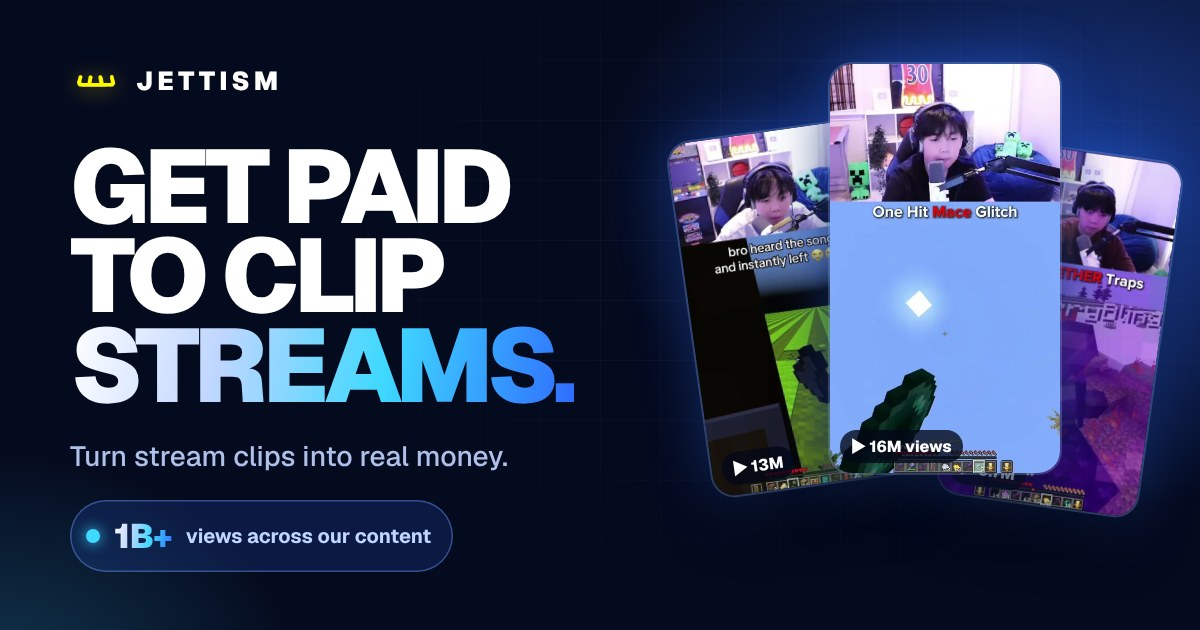
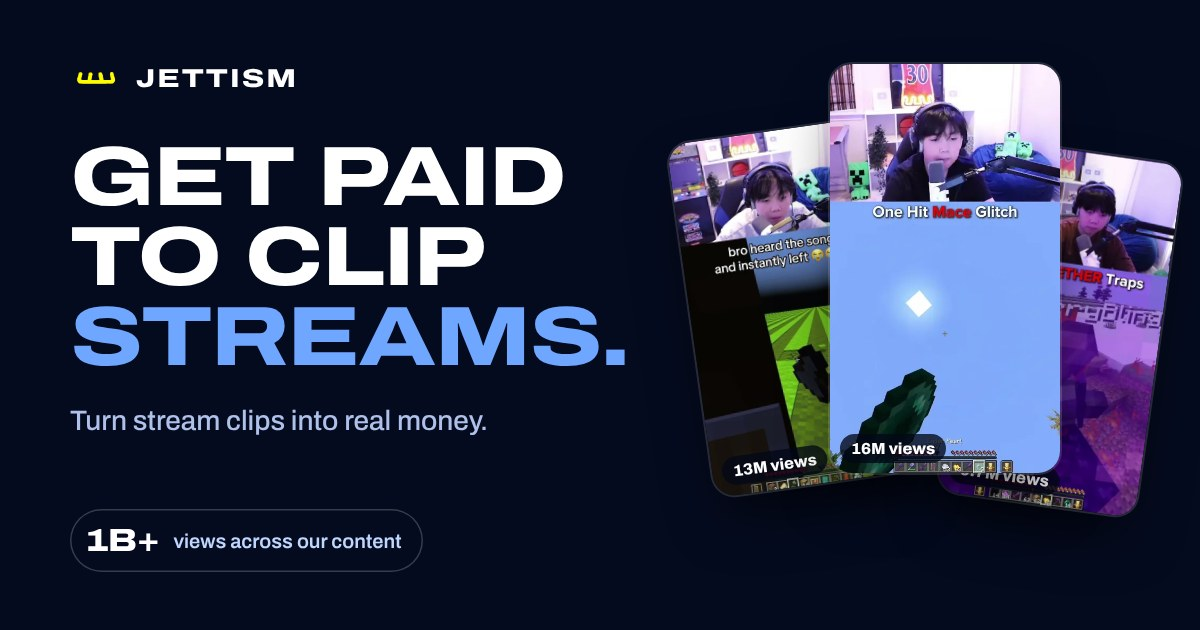
Tone down the design: Archivo font, flat colours, no glow, no sparkles/arrows, plainer copy
Headlines now 'The Numbers', 'Two streams a week. Lots to clip.', 'Join our team'.

Claude-Session: https://claude.ai/code/session_019TRDTgZzLYqmLrYf244trq

diff --git a/index.html b/index.html
@@ -10,19 +10,19 @@
 <meta property="og:url" content="https://jettism.productions/">
 <meta property="og:title" content="Get Paid To Clip Streams">
 <meta property="og:description" content="Turn stream clips into real money. Clip the streams, post the best moments, and get paid for your views.">
-<meta property="og:image" content="https://jettism.productions/og.jpg?v=1">
+<meta property="og:image" content="https://jettism.productions/og.jpg?v=2">
 <meta property="og:image:width" content="1200">
 <meta property="og:image:height" content="630">
 <meta property="og:image:alt" content="Get paid to clip streams — Jettism, 1B+ views">
 <meta name="twitter:card" content="summary_large_image">
 <meta name="twitter:title" content="Get Paid To Clip Streams">
 <meta name="twitter:description" content="Turn stream clips into real money. Clip the streams, post the best moments, and get paid for your views.">
-<meta name="twitter:image" content="https://jettism.productions/og.jpg?v=1">
+<meta name="twitter:image" content="https://jettism.productions/og.jpg?v=2">
 <meta name="theme-color" content="#2F6BFF">
 <link rel="icon" type="image/png" href="/jettismicontransparent.png">
 <link rel="preconnect" href="https://fonts.googleapis.com">
 <link rel="preconnect" href="https://fonts.gstatic.com" crossorigin>
-<link href="https://fonts.googleapis.com/css2?family=Geist:wght@400;500;600;700;800;900&family=Geist+Mono:wght@500;600;700&display=swap" rel="stylesheet">
+<link href="https://fonts.googleapis.com/css2?family=Archivo:wdth,wght@62..125,100..900&display=swap" rel="stylesheet">
 <link rel="preload" as="image" href="/clips/yt/y8GXeNOjC-I.webp">
 <style>
 :root{
@@ -35,7 +35,7 @@
 }
 *,*::before,*::after{box-sizing:border-box;margin:0;padding:0}
 html{scroll-behavior:smooth;scroll-padding-top:84px;-webkit-text-size-adjust:100%}
-body{font-family:'Geist',system-ui,-apple-system,sans-serif;background:var(--navy-900);color:#fff;
+body{font-family:'Archivo',system-ui,-apple-system,sans-serif;background:var(--navy-900);color:#fff;
   -webkit-font-smoothing:antialiased;overflow-x:hidden;line-height:1.5}
 img{display:block;max-width:100%}
 a{color:inherit;text-decoration:none}
@@ -248,7 +248,7 @@ section{position:relative}
 .step::before{content:'';position:absolute;right:-60px;top:-60px;width:200px;height:200px;border-radius:50%;
   background:radial-gradient(circle,rgba(63,216,255,.28),transparent 70%);transition:transform .6s var(--ease)}
 .step:hover::before{transform:scale(1.4)}
-.step .num{font-family:'Geist Mono',monospace;font-weight:700;font-size:14px;color:var(--blue);letter-spacing:.1em}
+.step .num{font-family:'Archivo',sans-serif;font-weight:700;font-size:14px;color:var(--blue);letter-spacing:.1em}
 .step .ic{width:64px;height:64px;border-radius:18px;display:grid;place-items:center;margin:22px 0 26px;
   background:linear-gradient(140deg,#5B92FF,var(--blue-2));box-shadow:0 16px 30px -10px rgba(47,107,255,.7),0 0 0 1px rgba(255,255,255,.3) inset}
 .step .ic svg{width:30px;height:30px}
@@ -339,6 +339,51 @@ footer{background:var(--navy-950);padding:44px 0;border-top:1px solid var(--line
   .track{animation:none!important}
   .line-path{stroke-dashoffset:0!important}.bars i{transform:none!important}.area{opacity:1!important}
 }
+
+/* ---------- calmer look: one typeface, flat colour, no glow ---------- */
+:root{--accent:#6FA6FF}
+body,.btn,.nav-links a{font-family:'Archivo',system-ui,-apple-system,sans-serif}
+.h-xl,.h-lg,.h-xxl,.logo,.ticker-track,.bignum .n,.pstat .v,.ostat .v,.f-views .v{font-family:'Archivo',sans-serif;font-stretch:125%}
+.h-xl{font-weight:800;letter-spacing:-.02em;line-height:.95;font-size:clamp(44px,6.3vw,102px)}
+.h-lg,.h-xxl{font-weight:800;letter-spacing:-.02em;line-height:.95}
+.h-lg{font-size:clamp(40px,5.6vw,84px)} .h-xxl{font-size:clamp(40px,6.4vw,104px)}
+.bignum .n{font-weight:800;letter-spacing:-.02em;font-size:clamp(30px,4.4vw,66px)}
+.bignum .n small{font-size:.34em;letter-spacing:.02em;margin-left:10px;color:var(--muted-d);font-stretch:100%;vertical-align:.7em;font-weight:600}
+.pstat .v,.ostat .v{font-weight:800;letter-spacing:-.02em}
+.accent{color:var(--accent)}
+.logo{font-weight:800;letter-spacing:.08em}
+.logo img{filter:none}
+.btn{font-weight:700;letter-spacing:0;font-size:16px;border-radius:12px}
+.btn-primary{background:var(--blue);box-shadow:none}
+.btn-primary:hover{background:#4A7DFF;box-shadow:none;transform:none}
+.btn-primary::after{display:none}
+.btn-ghost{background:transparent;box-shadow:0 0 0 1px rgba(255,255,255,.22) inset;backdrop-filter:none}
+.btn-ghost:hover{background:rgba(255,255,255,.06);transform:none}
+.btn-huge{animation:none;height:64px;padding:0 36px;margin-top:36px;font-size:17px}
+.hero{background:var(--navy-900)}
+.ph{box-shadow:0 0 0 1px rgba(255,255,255,.12),0 30px 60px -24px rgba(0,0,0,.75)}
+.float{animation:none;background:#0C1838;backdrop-filter:none;-webkit-backdrop-filter:none;box-shadow:0 0 0 1px rgba(255,255,255,.1),0 20px 40px -16px rgba(0,0,0,.6)}
+.f-views .k{letter-spacing:.02em;font-size:12px}
+.f-views .up{color:var(--muted-d);font-weight:500}
+.ticker{background:var(--blue);box-shadow:none;padding:18px 0}
+.ticker-track{font-weight:800;letter-spacing:-.01em;gap:40px}
+.ticker-track img{height:.5em;width:auto}
+.proof{background:var(--navy-900)}
+.pstat{background:transparent;box-shadow:0 0 0 1px var(--line-d) inset}
+.gcard{box-shadow:0 0 0 1px rgba(255,255,255,.1)}
+.gcard:hover{transform:translateY(-4px);box-shadow:0 0 0 1px rgba(255,255,255,.3)}
+.gallery .gcard.in:nth-child(4n+2):hover,.gallery .gcard.in:nth-child(4n+4):hover{transform:translateY(40px)}
+.gcard:hover img{transform:none}
+.gcard .rank{background:rgba(3,8,23,.8);backdrop-filter:none}
+.gcard .meta span{color:#fff;opacity:.8;font-weight:600}
+.opp{background:var(--navy-950)}
+.opp-stats{background:var(--line-d)}
+.mt{box-shadow:0 0 0 1px rgba(255,255,255,.1)}
+.final{background:var(--blue-2)}
+.final .sub{color:#DCE6FF}
+.final .fine{color:#C3D3FF}
+.final .btn-primary{background:#fff;color:var(--blue-2)}
+.final .btn-primary:hover{background:#E8EFFF}
 </style>
 </head>
 <body>
@@ -349,37 +394,36 @@ footer{background:var(--navy-950);padding:44px 0;border-top:1px solid var(--line
     <nav class="nav-links" aria-label="Sections">
       <a href="#clips">Viral Clips</a>
     </nav>
-    <a class="btn btn-primary" data-join href="/apply?position=Clipper">Join Now <span class="arr">→</span></a>
+    <a class="btn btn-primary" data-join href="/apply?position=Clipper">Apply</a>
   </div>
 </header>
 
 <main id="top">
 <!-- ============ HERO ============ -->
 <section class="hero">
-  <div class="grid-bg"></div><div class="orb o1"></div><div class="orb o2"></div>
   <div class="wrap hero-grid">
     <div>
       
-      <h1 class="h-xl"><span class="ld" style="--d:.12s">Get paid</span><span class="ld" style="--d:.2s">to clip</span><span class="ld grad" style="--d:.28s">streams.</span></h1>
+      <h1 class="h-xl"><span class="ld" style="--d:.12s">Get paid</span><span class="ld" style="--d:.2s">to clip</span><span class="ld accent" style="--d:.28s">streams.</span></h1>
       <p class="lead ld" style="--d:.4s">Turn stream clips into real money.</p>
       <div class="ctas ld" style="--d:.5s">
-        <a class="btn btn-primary" data-join href="/apply?position=Clipper">START EARNING <span class="arr">→</span></a>
-        <a class="btn btn-ghost" href="#clips">SEE THE CLIPS <span class="arr" style="transform:none">↓</span></a>
+        <a class="btn btn-primary" data-join href="/apply?position=Clipper">Apply to clip</a>
+        <a class="btn btn-ghost" href="#clips">See the clips</a>
       </div>
       <div class="bignum ld" style="--d:.62s">
-        <div class="n"><span class="grad mono" data-count="views-hero">1,000,000,000</span><span class="grad">+</span><small>VIEWS</small></div>
-        <p data-text="heroViewsNote">Over 1 billion views generated across our content.</p>
+        <div class="n"><span class="mono" data-count="views-hero">1,000,000,000</span>+<small>views</small></div>
+        <p data-text="heroViewsNote">Across the Jettism and JettismToo channels.</p>
       </div>
     </div>
 
     <div class="stage ld" style="--d:.3s" aria-hidden="true">
-      <div class="ph p2" data-par="-0.06"><img src="/clips/yt/KuRzqeLLo8I.webp" alt="" width="432" height="768"><span class="vc">▶ 13M views</span></div>
-      <div class="ph p3" data-par="-0.1"><img src="/clips/yt/a8vPLp1cC3E.webp" alt="" width="432" height="768"><span class="vc">▶ 9.7M views</span></div>
-      <div class="ph p1" data-par="-0.03"><img src="/clips/yt/y8GXeNOjC-I.webp" alt="" width="432" height="768" fetchpriority="high"><span class="vc">▶ 16M views</span></div>
+      <div class="ph p2" data-par="-0.06"><img src="/clips/yt/KuRzqeLLo8I.webp" alt="" width="432" height="768"><span class="vc">13M views</span></div>
+      <div class="ph p3" data-par="-0.1"><img src="/clips/yt/a8vPLp1cC3E.webp" alt="" width="432" height="768"><span class="vc">9.7M views</span></div>
+      <div class="ph p1" data-par="-0.03"><img src="/clips/yt/y8GXeNOjC-I.webp" alt="" width="432" height="768" fetchpriority="high"><span class="vc">16M views</span></div>
       <div class="float f-views">
-        <div class="k">TOP CLIP</div>
+        <div class="k">Top clip</div>
         <div class="v mono">16,000,000</div>
-        <div class="up">▲ views on one stream clip</div>
+        <div class="up">views on one stream clip</div>
       </div>
       
       
@@ -390,20 +434,19 @@ footer{background:var(--navy-950);padding:44px 0;border-top:1px solid var(--line
 
 <!-- ============ TICKER ============ -->
 <div class="ticker" aria-label="Get paid for your views">
-  <div class="ticker-track" aria-hidden="true"><span>Get paid for your views</span><i>✦</i><span>Get paid for your views</span><i>✦</i><span>Get paid for your views</span><i>✦</i><span>Get paid for your views</span><i>✦</i><span>Get paid for your views</span><i>✦</i><span>Get paid for your views</span><i>✦</i><span>Get paid for your views</span><i>✦</i><span>Get paid for your views</span><i>✦</i></div>
+  <div class="ticker-track" aria-hidden="true"><span>Get paid for your views</span><img src="/crown.png" alt=""><span>Get paid for your views</span><img src="/crown.png" alt=""><span>Get paid for your views</span><img src="/crown.png" alt=""><span>Get paid for your views</span><img src="/crown.png" alt=""><span>Get paid for your views</span><img src="/crown.png" alt=""><span>Get paid for your views</span><img src="/crown.png" alt=""><span>Get paid for your views</span><img src="/crown.png" alt=""><span>Get paid for your views</span><img src="/crown.png" alt=""></div>
 </div>
 
 <!-- ============ PROOF ============ -->
 <section class="sec dark proof" id="clips">
   <div class="wrap">
     <div class="center">
-      <span class="eyebrow rv">Viral proof</span>
-      <h2 class="h-lg rv" style="--d:.08s">The numbers<br><span class="grad">speak for themselves.</span></h2>
-      <p class="sub rv" style="--d:.16s">Billions of impressions. Millions of viewers. Endless opportunities.</p>
+      <h2 class="h-lg rv" style="--d:.08s">The Numbers</h2>
+      <p class="sub rv" style="--d:.16s">The most-watched clips on JettismToo. Every one of them started as a moment on stream.</p>
     </div>
     <div class="proof-stats">
-      <div class="pstat rv" style="--d:.08s"><div class="v grad mono" data-count="short" data-to="16000000">0</div><div class="k">views on the top clip</div></div>
-      <div class="pstat rv" style="--d:.16s"><div class="v grad mono" data-count="int" data-to="116">0</div><div class="k">clips past 1M views</div></div>
+      <div class="pstat rv" style="--d:.08s"><div class="v mono" data-count="short" data-to="16000000">0</div><div class="k">views on the top clip</div></div>
+      <div class="pstat rv" style="--d:.16s"><div class="v mono" data-count="int" data-to="116">0</div><div class="k">clips past 1M views</div></div>
     </div>
     <div class="gallery" id="gallery"></div>
     <p class="proof-note rv">Live from <a href="https://www.youtube.com/@JettismToo/shorts" target="_blank" rel="noopener" style="text-decoration:underline">@JettismToo</a>, stream clips sorted by most popular (view counts as of Nov 23, 2026). Tap any clip to watch it.</p>
@@ -413,14 +456,12 @@ footer{background:var(--navy-950);padding:44px 0;border-top:1px solid var(--line
 
 <!-- ============ OPPORTUNITY ============ -->
 <section class="sec opp dark">
-  <div class="beam"></div>
   <div class="wrap center">
-    <span class="eyebrow rv">The opportunity</span>
-    <h2 class="h-xxl rv" style="--d:.08s">The next<br>viral clip<br><span class="grad">could be yours.</span></h2>
+    <h2 class="h-xxl rv" style="--d:.08s">Two streams a week.<br><span class="accent">Lots to clip.</span></h2>
     <div class="opp-stats rv" style="--d:.16s">
-      <div class="ostat"><div class="v grad mono" data-count="billion">1B+</div><div class="k">views across our content</div></div>
-      <div class="ostat"><div class="v grad mono" data-count="short" data-to="16000000">0</div><div class="k">views on one clip</div></div>
-      <div class="ostat"><div class="v grad mono">2×</div><div class="k">streams every week</div></div>
+      <div class="ostat"><div class="v mono" data-count="billion">1B+</div><div class="k">views across our content</div></div>
+      <div class="ostat"><div class="v mono" data-count="short" data-to="16000000">0</div><div class="k">views on one clip</div></div>
+      <div class="ostat"><div class="v mono">2×</div><div class="k">streams every week</div></div>
     </div>
   </div>
   <div class="marquee" aria-hidden="true">
@@ -432,10 +473,10 @@ footer{background:var(--navy-950);padding:44px 0;border-top:1px solid var(--line
 <!-- ============ FINAL ============ -->
 <section class="final">
   <div class="wrap">
-    <h2 class="h-xxl rv">Stop scrolling.<br><span class="grad">Start earning.</span></h2>
-    <p class="sub rv" style="--d:.1s">Your next clip could reach millions. Start clipping today.</p>
-    <a class="btn btn-primary btn-huge rv" style="--d:.18s" data-join href="/apply?position=Clipper">JOIN THE CLIPPING PROGRAM <span class="arr">→</span></a>
-    <p class="fine rv" style="--d:.24s">Takes about 2 minutes to apply.</p>
+    <h2 class="h-xxl rv">Join our team</h2>
+    <p class="sub rv" style="--d:.1s">Clip the streams, post the best parts, and get paid for the views.</p>
+    <a class="btn btn-primary btn-huge rv" style="--d:.18s" data-join href="/apply?position=Clipper">Apply now</a>
+    <p class="fine rv" style="--d:.24s">The form takes about 2 minutes.</p>
   </div>
 </section>
 </main>
@@ -462,7 +503,7 @@ footer{background:var(--navy-950);padding:44px 0;border-top:1px solid var(--line
 const CONFIG = {
   joinUrl: '/apply?position=Clipper',     // where every "Join / Start earning" button goes
   heroViews: 1000000000,                  // the big hero number
-  heroViewsNote: 'Over 1 billion views generated across our content.'
+  heroViewsNote: 'Across the Jettism and JettismToo channels.'
 };
 const CLIPS = [ // @JettismToo stream clips (facecam Shorts), Popular order — views as shown on YouTube, Nov 23 2026
   {id:"y8GXeNOjC-I",title:"Jettism Finds An OP Glitch",views:"16M"},
@@ -518,11 +559,11 @@ const CLIPS = [ // @JettismToo stream clips (facecam Shorts), Popular order — 
   const url = c => 'https://www.youtube.com/shorts/' + c.id, img = c => '/clips/yt/' + c.id + '.webp';
   document.getElementById('gallery').innerHTML = CLIPS.slice(0,12).map((c,i) =>
     `<a class="gcard rv" style="--d:${(i%4)*.07}s" href="${url(c)}" target="_blank" rel="noopener"><img src="${img(c)}" alt="${esc(c.title)} — ${c.views} views on YouTube" loading="lazy" decoding="async">
-      <span class="rank ${i<3?'top':''}">#${i+1}</span><span class="pl">▶</span>
+      <span class="rank">#${i+1}</span>
       <span class="meta"><b>${esc(c.title)}</b><span>${c.views} views</span></span></a>`).join('');
 
   // marquee
-  const tile = c => `<div class="mt"><img src="${img(c)}" alt="" loading="lazy" decoding="async"><span>▶ ${c.views}</span></div>`;
+  const tile = c => `<div class="mt"><img src="${img(c)}" alt="" loading="lazy" decoding="async"><span>${c.views}</span></div>`;
   const a = CLIPS.slice(12,24), b = CLIPS.slice(24,36);
   document.getElementById('m1').innerHTML = [...a,...a].map(tile).join('');
   document.getElementById('m2').innerHTML = [...b,...b].map(tile).join('');

diff --git a/apply.html b/apply.html
@@ -10,19 +10,19 @@
 <meta property="og:url" content="https://jettism.productions/apply">
 <meta property="og:title" content="Join The Jettism Team">
 <meta property="og:description" content="Clippers, editors, thumbnail designers, animators and Minecraft builders. Apply in about 2 minutes.">
-<meta property="og:image" content="https://jettism.productions/og.jpg?v=1">
+<meta property="og:image" content="https://jettism.productions/og.jpg?v=2">
 <meta property="og:image:width" content="1200">
 <meta property="og:image:height" content="630">
 <meta property="og:image:alt" content="Join the Jettism team">
 <meta name="twitter:card" content="summary_large_image">
 <meta name="twitter:title" content="Join The Jettism Team">
 <meta name="twitter:description" content="Clippers, editors, thumbnail designers, animators and Minecraft builders. Apply in about 2 minutes.">
-<meta name="twitter:image" content="https://jettism.productions/og.jpg?v=1">
+<meta name="twitter:image" content="https://jettism.productions/og.jpg?v=2">
 <meta name="theme-color" content="#2F6BFF">
 <link rel="icon" type="image/png" href="/jettismicontransparent.png">
 <link rel="preconnect" href="https://fonts.googleapis.com">
 <link rel="preconnect" href="https://fonts.gstatic.com" crossorigin>
-<link href="https://fonts.googleapis.com/css2?family=Geist:wght@400;500;600;700;800;900&family=Geist+Mono:wght@600&display=swap" rel="stylesheet">
+<link href="https://fonts.googleapis.com/css2?family=Archivo:wdth,wght@62..125,100..900&display=swap" rel="stylesheet">
 <style>
 :root{
   --navy-950:#030817; --navy-900:#050B1F; --navy-800:#0A1433;
@@ -36,7 +36,7 @@
 *,*::before,*::after{box-sizing:border-box;margin:0;padding:0}
 [hidden]{display:none!important}
 html{-webkit-text-size-adjust:100%}
-body{font-family:'Geist',system-ui,-apple-system,sans-serif;color:#fff;-webkit-font-smoothing:antialiased;min-height:100vh;
+body{font-family:'Archivo',system-ui,-apple-system,sans-serif;color:#fff;-webkit-font-smoothing:antialiased;min-height:100vh;
   background:radial-gradient(900px 600px at 85% -5%,rgba(47,107,255,.32),transparent 60%),
              radial-gradient(700px 500px at -10% 60%,rgba(63,216,255,.10),transparent 60%),var(--navy-900);
   background-attachment:fixed;line-height:1.5}
@@ -82,14 +82,14 @@ h1{font-weight:900;letter-spacing:-.045em;line-height:.9;font-size:clamp(48px,6.
 form{display:flex;flex-direction:column;gap:30px}
 .sec{display:grid;gap:18px}
 .sec-h{display:flex;align-items:center;gap:12px;padding-bottom:14px;border-bottom:1px solid var(--line)}
-.sec-h .n{font-family:'Geist Mono',monospace;font-size:12px;font-weight:600;color:var(--cyan);padding:4px 8px;border-radius:8px;background:rgba(63,216,255,.1)}
+.sec-h .n{font-family:'Archivo',sans-serif;font-size:12px;font-weight:600;color:var(--cyan);padding:4px 8px;border-radius:8px;background:rgba(63,216,255,.1)}
 .sec-h h3{font-size:17px;font-weight:800;letter-spacing:-.01em}
 .row{display:grid;grid-template-columns:1fr 1fr;gap:16px}
 .field{display:flex;flex-direction:column;gap:8px;min-width:0}
 .field label,.field .q{font-weight:600;font-size:14px;color:#E6EEFF}
 .hint{font-size:12.5px;color:var(--muted);margin-top:-4px}
 input[type=text],input[type=number],input[type=url],textarea,select{
-  width:100%;padding:13px 15px;border-radius:14px;border:0;outline:none;color:#fff;font:500 15px/1.45 'Geist',system-ui,sans-serif;
+  width:100%;padding:13px 15px;border-radius:14px;border:0;outline:none;color:#fff;font:500 15px/1.45 'Archivo',system-ui,sans-serif;
   background:var(--field);box-shadow:0 0 0 1px var(--line-2) inset;transition:box-shadow .2s,background .2s}
 input::placeholder,textarea::placeholder{color:rgba(170,190,235,.45)}
 input:hover,textarea:hover,select:hover{box-shadow:0 0 0 1px rgba(150,180,255,.4) inset}
@@ -121,7 +121,7 @@ select option,select optgroup{background:#0A1433;color:#fff}
 .consent input:focus-visible{outline:2px solid var(--cyan);outline-offset:2px}
 
 .notice{padding:13px 16px;border-radius:14px;font-size:14px;font-weight:600;text-align:center;color:var(--warn);background:rgba(255,214,107,.08);box-shadow:0 0 0 1px rgba(255,214,107,.3) inset}
-.submit-btn{position:relative;height:60px;border:0;border-radius:999px;cursor:pointer;color:#fff;font:800 16px 'Geist',sans-serif;letter-spacing:.04em;
+.submit-btn{position:relative;height:60px;border:0;border-radius:999px;cursor:pointer;color:#fff;font:800 16px 'Archivo',sans-serif;letter-spacing:.04em;
   background:linear-gradient(180deg,#4B82FF,var(--blue) 55%,var(--blue-2));overflow:hidden;
   box-shadow:0 0 0 1px rgba(255,255,255,.16) inset,0 14px 34px -10px rgba(47,107,255,.85),0 0 60px -12px rgba(63,216,255,.6);
   transition:transform .3s var(--ease),box-shadow .3s var(--ease),opacity .2s}
@@ -160,21 +160,39 @@ select option,select optgroup{background:#0A1433;color:#fff}
   h1{font-size:52px}
 }
 @media (prefers-reduced-motion:reduce){.reveal{animation:none;opacity:1;transform:none}.done .tick{animation:none}}
+
+/* ---------- calmer look: one typeface, flat colour, no glow ---------- */
+:root{--accent:#6FA6FF}
+body{background:var(--navy-900)}
+.accent{color:var(--accent)}
+h1,.logo,.proof b,.done h2{font-stretch:125%}
+h1{font-weight:800;letter-spacing:-.02em;line-height:.95;font-size:clamp(46px,5.6vw,84px);margin-top:0}
+.logo{font-weight:800;letter-spacing:.08em}
+.logo img{filter:none}
+.proof b{font-weight:800;letter-spacing:-.02em}
+.proof div{background:transparent;box-shadow:0 0 0 1px var(--line) inset}
+.reqs li i{background:var(--blue);box-shadow:none}
+.card{background:#0A1433;backdrop-filter:none;-webkit-backdrop-filter:none;box-shadow:0 0 0 1px var(--line) inset}
+.sec-h .n{font-weight:700}
+.check-opt:has(input:checked){background:var(--blue);box-shadow:none}
+.submit-btn{border-radius:12px;background:var(--blue);box-shadow:none;letter-spacing:0;font-weight:700;font-size:17px}
+.submit-btn:hover:not(:disabled){background:#4A7DFF;box-shadow:none;transform:none}
+.done .tick{background:var(--blue);box-shadow:none}
+.done h2{font-weight:800;letter-spacing:-.02em}
+.done a{border-radius:12px}
 </style>
 </head>
 <body>
-<div class="grid-bg"></div>
 <header class="nav">
   <div class="nav-in">
     <a href="/" class="logo"><img src="/crown.png" alt="" width="32" height="16">JETTISM</a>
-    <a href="/" class="back">← Back to site</a>
+    <a href="/" class="back">Back to site</a>
   </div>
 </header>
 
 <main class="page">
   <section class="intro">
-    <span class="eyebrow reveal">Join the team</span>
-    <h1 class="reveal" style="animation-delay:.06s">Join the<br>Jettism<br><span class="grad">team.</span></h1>
+    <h1 class="reveal" style="animation-delay:.06s">Join our<br><span class="accent">team</span></h1>
     <p class="lead reveal" style="animation-delay:.12s">We're hiring clippers, editors, thumbnail designers, animators and Minecraft builders.</p>
     <div class="reqs reveal" style="animation-delay:.18s">
       <h2>We're looking for people who are</h2>
@@ -185,8 +203,8 @@ select option,select optgroup{background:#0A1433;color:#fff}
       </ul>
     </div>
     <div class="proof reveal" style="animation-delay:.24s">
-      <div><b class="grad">16M</b><span>views on our top clip</span></div>
-      <div><b class="grad">116</b><span>clips past 1M views</span></div>
+      <div><b>16M</b><span>views on our top clip</span></div>
+      <div><b>116</b><span>clips past 1M views</span></div>
     </div>
   </section>
 

diff --git a/analytics.html b/analytics.html
@@ -9,7 +9,7 @@
 <link rel="icon" type="image/png" href="/jettismicontransparent.png">
 <link rel="preconnect" href="https://fonts.googleapis.com">
 <link rel="preconnect" href="https://fonts.gstatic.com" crossorigin>
-<link href="https://fonts.googleapis.com/css2?family=Geist:wght@400;500;600;700;800;900&display=swap" rel="stylesheet">
+<link href="https://fonts.googleapis.com/css2?family=Archivo:wdth,wght@62..125,100..900&display=swap" rel="stylesheet">
 <script src="https://accounts.google.com/gsi/client" async defer></script>
 <style>
 :root{
@@ -22,7 +22,7 @@
 }
 *,*::before,*::after{box-sizing:border-box;margin:0;padding:0}
 [hidden]{display:none!important}
-body{font-family:'Geist',system-ui,-apple-system,sans-serif;color:var(--ink);-webkit-font-smoothing:antialiased;min-height:100vh;
+body{font-family:'Archivo',system-ui,-apple-system,sans-serif;color:var(--ink);-webkit-font-smoothing:antialiased;min-height:100vh;
   background:radial-gradient(900px 500px at 80% -10%,rgba(47,107,255,.25),transparent 60%),var(--navy-900);background-attachment:fixed}
 a{color:inherit}
 button{font:inherit;color:inherit;cursor:pointer;border:0;background:none}
